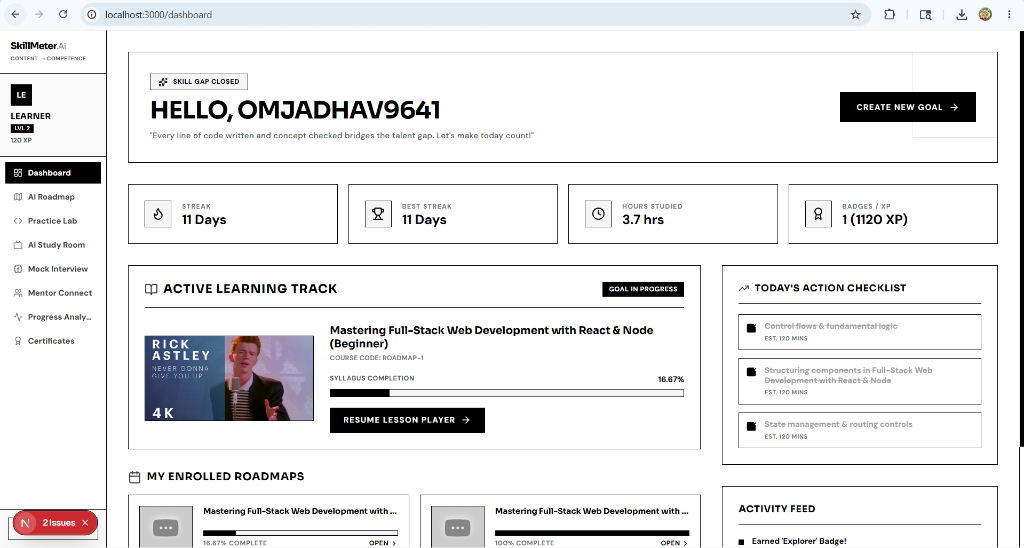
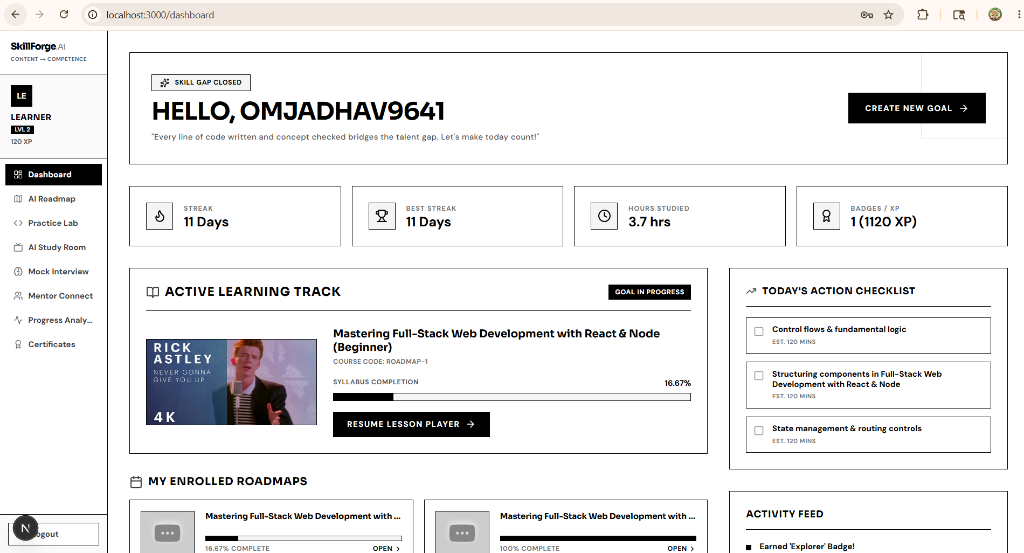
docs: update README screenshots with rebranded UI and add interactive lesson player image

diff --git a/README.md b/README.md
@@ -29,6 +29,9 @@ Featuring a striking, custom **Swiss Neobrutalist design system**—with sharp c
 ### 🎓 Dynamic Credentials Hub
 ![Credentials Hub](docs/images/certificates.png)
 
+### 🎬 Interactive Lesson Player
+![Lesson Player](docs/images/learning.png)
+
 ---
 
 
